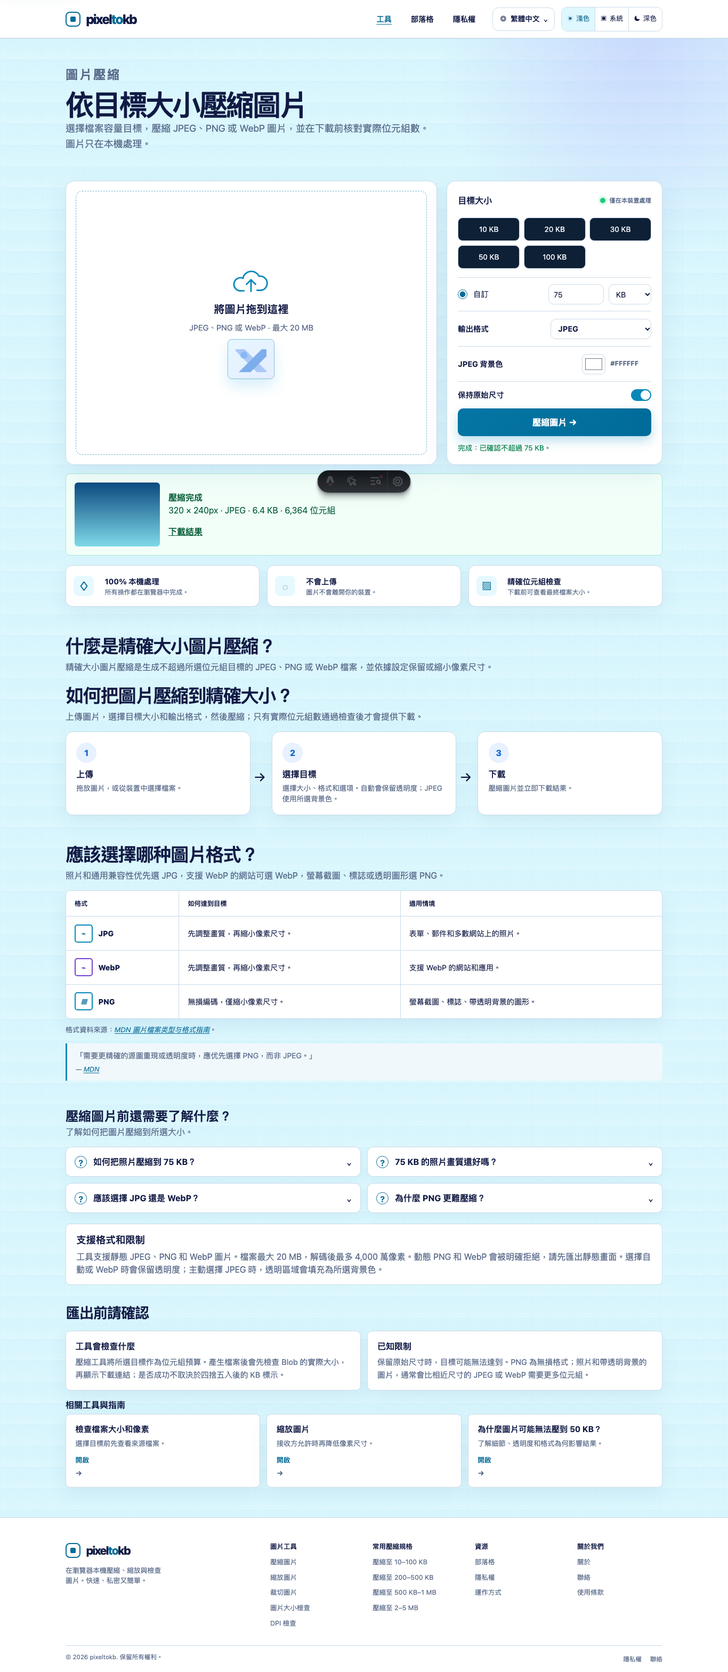
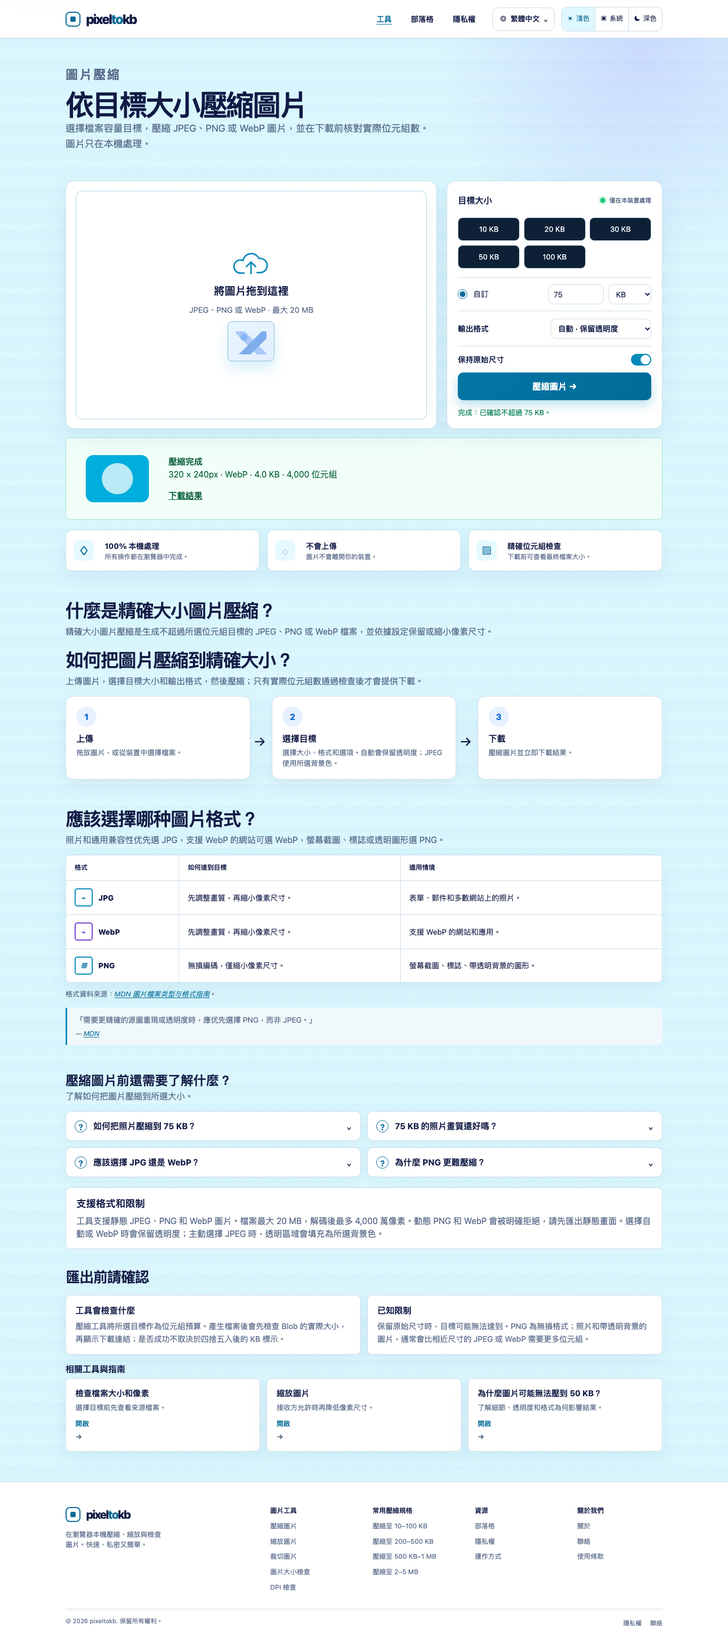
Fix report content evidence and compression range pages

diff --git a/src/lib/guide-content.ts b/src/lib/guide-content.ts
@@ -42,7 +42,7 @@ export const guides: Record<PublishedLocale, Guide[]> = {
         ['Use the destination’s unit', 'Choose KB when the receiving service specifies KB, and KiB when it specifies KiB. If the service is ambiguous, leave a safety margin instead of aiming at the displayed boundary.'],
         ['Why exact bytes matter', 'A rounded label may conceal a small overage. Compare the actual file byte count with the exact ceiling, especially for application forms and automated upload checks.']
       ],
-      example: { heading: 'Verified conversion', rows: [['Starting target', '75 KB'], ['Exact bytes', '75,000'], ['Equivalent KiB', '73.2421875 KiB'], ['Browser result', '320 × 240 JPEG, 6,364 bytes']], note: 'Switching the unit and returning to KB preserved the same 75,000-byte target; the browser run stayed below that ceiling.' },
+      example: { heading: 'Verified conversion', rows: [['Starting target', '75 KB'], ['Exact bytes', '75,000'], ['Equivalent KiB', '73.2421875 KiB'], ['Browser result', '320 × 240 transparent PNG source → 4,000-byte WebP']], note: 'Switching the unit and returning to KB preserved the same 75,000-byte target; the browser run stayed below that ceiling while using a separate transparent source.' },
       sources: [['Unit definitions', 'Decimal units use powers of 1,000; binary IEC units use powers of 1,024.'], ['Example method', 'A 75 KB target was converted across KB, KiB, MB, and MiB and returned to the same 75,000-byte value.']]
     },
     {
@@ -60,22 +60,22 @@ export const guides: Record<PublishedLocale, Guide[]> = {
       slug: 'compress-image-to-100kb', category: 'UPLOAD CASE', title: 'Compress an image to 100 KB for an upload',
       intro: 'A 100 KB upload rule is an exact byte ceiling. This case shows how to choose a target and verify the saved file without promising that every image can reach it.',
       sections: [['Start with the actual limit', 'When a destination uses decimal KB, 100 KB means 100,000 bytes. Check its accepted formats and any pixel limits before changing the file.'], ['Work to the byte budget', 'For a static JPEG or WebP, keep dimensions when the destination permits it, choose 100 KB, and process the file. The tool checks the generated output Blob before offering a download.'], ['Verify the saved download', 'Open the saved file in the size checker and compare exact bytes, pixels, and format with the destination requirements. If the target is unreachable, change dimensions or format only when the destination allows it.']],
-      example: { heading: 'Verified case', rows: [['Limit used', '100 KB = 100,000 bytes'], ['Browser result', '320 × 240 JPEG, 6,364 bytes'], ['Success condition', 'Saved output is at or below the byte ceiling'], ['Fallback', 'Adjust pixels or format only when permitted']], note: 'The screenshot and saved result use the same 320 × 240 JPEG run. This is a repeatable workflow, not a guarantee that every source can meet 100 KB with unchanged dimensions.' },
+      example: { heading: 'Verified case', rows: [['Limit used', '100 KB = 100,000 bytes'], ['Browser result', '320 × 240 RGBA PNG source → 4,016-byte WebP'], ['Success condition', 'Saved output is at or below the byte ceiling'], ['Fallback', 'Adjust pixels or format only when permitted']], note: 'The screenshot and saved result use the same 320 × 240 RGBA PNG run. This is a repeatable workflow, not a guarantee that every source can meet 100 KB with unchanged dimensions.' },
       sources: [['Tool behavior', 'The compressor uses the actual generated Blob byte count as its pass condition, not a rounded label.'], ['Verification method', 'The size checker reads the downloaded file locally to show exact bytes, decoded dimensions, format, and transparency information.']]
     }
   ],
   'zh-cn': [
     { slug:'compress-without-changing-dimensions', category:'压缩基础', title:'不改变像素尺寸，如何压缩图片？', intro:'遇到文件体积限制时，可以先减少编码后的字节数，不必立即改变像素宽高。', sections:[['保持尺寸时可以改变什么？','JPEG 和 WebP 可以用部分细节换取更少字节，同时保持宽高不变。PNG 是无损格式；如果目标很小，除非减少像素或改用接收平台支持的其他格式，否则可能无法达到。'],['可复现的操作步骤','先检查原图尺寸和精确字节数，保持原始尺寸，选择接收平台支持的格式，设置字节目标并处理。只有结果不超过预算时才下载，再用检查工具重新读取保存文件。'],['需要了解的限制','达到字节目标不代表画质一定合格，也不保证接收平台通过。工具拒绝动态 PNG 和 WebP；静态 JPEG、PNG、WebP 输入上限为 20 MB 和 4000 万像素。']], example:{heading:'已验证样例',rows:[['原图','JPEG，320 × 240 像素'],['目标','20 KB（20,000 字节）'],['保存结果','JPEG，6,364 字节，320 × 240 像素'],['尺寸检查','宽高均未改变']],note:'下载后重新解码保存文件，并核对了 JPEG 签名、MIME、尺寸和精确字节数。'},sources:[['样例方法','将 320 × 240 JPEG 处理到 20,000 字节目标，再次打开保存文件，确认格式、尺寸与 6,364 字节的实际大小。'],['技术依据','是否达标只看生成 Blob 的实际字节数，不用四舍五入显示值代替。']]},
     { slug:'why-image-wont-fit-50kb', category:'问题排查', title:'为什么图片可能无法压到 50 KB？', intro:'50 KB 是字节上限，并不保证每张原图都能在格式、尺寸和可见细节不变的情况下达到。', sections:[['图片内容会改变结果','平滑区域容易编码；头发、树叶、文字边缘、颗粒和相机噪点需要更多数据，因此同样像素尺寸的图片也可能产生完全不同的文件体积。'],['格式和透明度同样重要','JPEG 和 WebP 可以舍弃部分细节；PNG 无损保留像素，照片往往较大。需要透明背景时应选 PNG 或 WebP；导出 JPEG 必须明确选择背景色。'],['接下来可以怎么做','先确认接收平台允许哪些格式。支持 WebP 时可以尝试 WebP，否则允许缩小尺寸或提高字节预算。工具提示无法达到目标时，不要把四舍五入后的标签当作成功证据。']],example:{heading:'已验证样例',rows:[['JPEG 原图','320 × 240 → 6,364 字节 JPEG，低于 50 KB'],['WebP 原图','320 × 240 → 23,906 字节 WebP，低于 50 KB'],['高透明度 PNG，目标 10 KB','保持尺寸时无法达到；不提供下载']],note:'第三个案例验证了相同边界：某些格式、透明度、尺寸和字节预算组合不存在有效结果。'},sources:[['样例方法','使用静态 JPEG、WebP 和透明 PNG，在保持尺寸时比较可以达到和无法达到的字节目标。'],['判定规则','只有实际输出 Blob 不超过所选字节数才算成功，否则明确返回失败。']]},
-    { slug:'kb-vs-kib', category:'文件大小', title:'KB 与 KiB 有什么区别？上传限制该看哪个？', intro:'KB 与 KiB 代表不同的字节数；上传上限按精确数值执行时，这个差异很重要。',sections:[['十进制与二进制单位','1 KB 是 1,000 字节，1 KiB 是 1,024 字节；1 MB 是 1,000,000 字节，1 MiB 是 1,048,576 字节。'],['使用接收平台的单位','平台写 KB 就选择 KB，写 KiB 就选择 KiB。标注不明确时，不要卡着显示边界，应留出安全余量。'],['为什么要看精确字节数','四舍五入后的标签可能遮住少量超限。申请表和自动上传检查有严格上限时，应直接比较实际文件字节数。']],example:{heading:'已验证换算',rows:[['起始目标','75 KB'],['精确字节数','75,000'],['等值 KiB','73.2421875 KiB'],['浏览器结果','320 × 240 JPEG，6,364 字节']],note:'切换单位后再回到 KB，仍保持同一个 75,000 字节目标；这次浏览器操作的结果低于该上限。'},sources:[['单位定义','十进制单位使用 1,000 的幂，IEC 二进制单位使用 1,024 的幂。'],['样例方法','将 75 KB 目标在 KB、KiB、MB 与 MiB 之间换算，再回到同一个 75,000 字节值。']]},
+    { slug:'kb-vs-kib', category:'文件大小', title:'KB 与 KiB 有什么区别？上传限制该看哪个？', intro:'KB 与 KiB 代表不同的字节数；上传上限按精确数值执行时，这个差异很重要。',sections:[['十进制与二进制单位','1 KB 是 1,000 字节，1 KiB 是 1,024 字节；1 MB 是 1,000,000 字节，1 MiB 是 1,048,576 字节。'],['使用接收平台的单位','平台写 KB 就选择 KB，写 KiB 就选择 KiB。标注不明确时，不要卡着显示边界，应留出安全余量。'],['为什么要看精确字节数','四舍五入后的标签可能遮住少量超限。申请表和自动上传检查有严格上限时，应直接比较实际文件字节数。']],example:{heading:'已验证换算',rows:[['起始目标','75 KB'],['精确字节数','75,000'],['等值 KiB','73.2421875 KiB'],['浏览器结果','320 × 240 透明 PNG 原图 → 4,000 字节 WebP']],note:'切换单位后再回到 KB，仍保持同一个 75,000 字节目标；这次使用独立透明素材的浏览器操作结果低于该上限。'},sources:[['单位定义','十进制单位使用 1,000 的幂，IEC 二进制单位使用 1,024 的幂。'],['样例方法','将 75 KB 目标在 KB、KiB、MB 与 MiB 之间换算，再回到同一个 75,000 字节值。']]},
     { slug:'check-image-size-and-dpi',category:'图片元数据',title:'如何检查图片大小、像素与 DPI？',intro:'文件字节数、像素尺寸、透明度和 DPI 是不同属性，需要分别检查。',sections:[['文件大小与像素尺寸','文件大小是存储的字节数，像素尺寸是宽和高。压缩改变编码字节，缩放改变像素网格，两者不能互相可靠推断。'],['DPI 能说明什么','DPI 是打印密度元数据，不会增加图片细节。有些文件不包含密度值，应显示为不可用，不能虚构为 72 DPI。'],['快速检查流程','在大小检查工具中选择保存文件，记录字节、KB、KiB、宽高、比例和透明度，再使用 DPI 检查工具。接收平台的格式与尺寸规则仍需另行核对。']],example:{heading:'已验证检查结果',rows:[['JPEG 文件','2,930 字节 · 2.93 KB · 2.86 KiB；320 × 240；无透明度'],['DPI 字段','未嵌入密度值；不根据像素尺寸推断'],['不透明 WebP','320 × 240；显示无透明通道'],['裁剪 PNG','160 × 120；保存像素与所选原图区域一致']],note:'截图和案例使用同一个本地 JPEG；检查器读取实际文件字节和解析后的元数据，不根据像素尺寸猜测 DPI。'},sources:[['样例方法','再次打开保存的 JPEG、不透明 WebP、透明 WebP 与裁剪 PNG，对比字节、尺寸、透明度及可用密度元数据。'],['隐私边界','图片工具只在浏览器中读取所选文件，不会上传到 PixelTokb。']]},
-    {slug:'compress-image-to-100kb',category:'上传案例',title:'如何将图片压缩到 100 KB 用于上传？',intro:'100 KB 上传限制是精确字节上限。这个案例说明如何选择目标并核对保存文件，不承诺每张图片都能在不改尺寸时达到。',sections:[['先确认实际限制','当接收平台使用十进制 KB 时，100 KB 就是 100,000 字节。处理前先确认可接受格式，以及是否还限制宽高。'],['按字节预算处理','对静态 JPEG 或 WebP，在平台允许时保持原尺寸，选择 100 KB 目标后处理。工具会先检查生成 Blob 的实际大小，再提供下载。'],['核对保存文件','用大小检查工具重新打开下载文件，逐项比对精确字节数、像素尺寸和格式。无法达到时，只在平台允许的前提下调整像素或格式。']],example:{heading:'已验证案例',rows:[['使用的上限','100 KB = 100,000 字节'],['浏览器结果','320 × 240 JPEG，6,364 字节'],['成功条件','保存文件不超过精确上限'],['无法达到时','仅在允许时调整像素或格式']],note:'截图和保存结果来自同一次 320 × 240 JPEG 操作。这是可重复的处理流程，不保证所有原图都能在尺寸不变时达到 100 KB。'},sources:[['工具行为','压缩器只以生成 Blob 的实际字节数判断是否达标，不用四舍五入标签代替。'],['核对方法','大小检查器会在本地读取下载文件，显示精确字节、解码尺寸、格式与透明度信息。']]}
+    {slug:'compress-image-to-100kb',category:'上传案例',title:'如何将图片压缩到 100 KB 用于上传？',intro:'100 KB 上传限制是精确字节上限。这个案例说明如何选择目标并核对保存文件，不承诺每张图片都能在不改尺寸时达到。',sections:[['先确认实际限制','当接收平台使用十进制 KB 时，100 KB 就是 100,000 字节。处理前先确认可接受格式，以及是否还限制宽高。'],['按字节预算处理','对静态 JPEG 或 WebP，在平台允许时保持原尺寸，选择 100 KB 目标后处理。工具会先检查生成 Blob 的实际大小，再提供下载。'],['核对保存文件','用大小检查工具重新打开下载文件，逐项比对精确字节数、像素尺寸和格式。无法达到时，只在平台允许的前提下调整像素或格式。']],example:{heading:'已验证案例',rows:[['使用的上限','100 KB = 100,000 字节'],['浏览器结果','320 × 240 RGBA PNG 原图 → 4,016 字节 WebP'],['成功条件','保存文件不超过精确上限'],['无法达到时','仅在允许时调整像素或格式']],note:'截图和保存结果来自同一次 320 × 240 RGBA PNG 操作。这是可重复的处理流程，不保证所有原图都能在尺寸不变时达到 100 KB。'},sources:[['工具行为','压缩器只以生成 Blob 的实际字节数判断是否达标，不用四舍五入标签代替。'],['核对方法','大小检查器会在本地读取下载文件，显示精确字节、解码尺寸、格式与透明度信息。']]}
   ],
   'zh-tw': [
     { slug:'compress-without-changing-dimensions',category:'壓縮基礎',title:'不改變像素尺寸，如何壓縮圖片？',intro:'遇到檔案容量限制時，可以先減少編碼後的位元組數，不必立即改變像素寬高。',sections:[['維持尺寸時可以改變什麼？','JPEG 與 WebP 可以犧牲部分細節來減少位元組，同時維持寬高。PNG 是無損格式；若目標很小，除非減少像素或改用接收平台支援的其他格式，否則可能無法達標。'],['可重現的操作步驟','先檢查原圖尺寸與實際位元組數，維持原始尺寸，選擇接收平台支援的格式，設定目標並處理。只有結果不超過預算時才下載，再用檢查工具重新讀取儲存檔案。'],['需要了解的限制','達到位元組目標不代表畫質一定合格，也不保證接收平台通過。工具拒絕動態 PNG 與 WebP；靜態 JPEG、PNG、WebP 輸入上限為 20 MB 與 4,000 萬像素。']],example:{heading:'已驗證範例',rows:[['原圖','JPEG，320 × 240 像素'],['目標','20 KB（20,000 位元組）'],['儲存結果','JPEG，6,364 位元組，320 × 240 像素'],['尺寸檢查','寬高均未改變']],note:'下載後重新解碼儲存檔案，並核對 JPEG 簽章、MIME、尺寸與實際位元組數。'},sources:[['範例方法','將 320 × 240 JPEG 處理到 20,000 位元組目標，再次開啟儲存檔案，確認格式、尺寸與 6,364 位元組的實際大小。'],['技術依據','是否達標只看產生 Blob 的實際位元組數，不以四捨五入顯示值取代。']]},
     { slug:'why-image-wont-fit-50kb',category:'問題排解',title:'為什麼圖片可能無法壓到 50 KB？',intro:'50 KB 是位元組上限，並不保證每張原圖都能在格式、尺寸與可見細節不變的情況下達標。',sections:[['圖片內容會改變結果','平滑區域容易編碼；頭髮、樹葉、文字邊緣、顆粒與相機雜訊需要更多資料，因此相同像素尺寸的圖片也可能產生完全不同的檔案大小。'],['格式與透明度同樣重要','JPEG 與 WebP 可以捨棄部分細節；PNG 無損保留像素，照片通常較大。需要透明背景時應選 PNG 或 WebP；匯出 JPEG 必須明確選擇背景色。'],['接下來可以怎麼做','先確認接收平台允許哪些格式。支援 WebP 時可以嘗試 WebP，否則允許縮小尺寸或提高位元組預算。工具提示無法達標時，不要把四捨五入後的標示當作成功證據。']],example:{heading:'已驗證範例',rows:[['JPEG 原圖','320 × 240 → 6,364 位元組 JPEG，低於 50 KB'],['WebP 原圖','320 × 240 → 23,906 位元組 WebP，低於 50 KB'],['高透明度 PNG，目標 10 KB','維持尺寸時無法達標；不提供下載']],note:'第三個案例驗證了相同界線：某些格式、透明度、尺寸與位元組預算組合不存在有效結果。'},sources:[['範例方法','使用靜態 JPEG、WebP 與透明 PNG，在維持尺寸時比較可以達到及無法達到的位元組目標。'],['判定規則','只有實際輸出 Blob 不超過所選位元組數才算成功，否則明確回報失敗。']]},
-    {slug:'kb-vs-kib',category:'檔案大小',title:'KB 與 KiB 有什麼不同？上傳限制該看哪個？',intro:'KB 與 KiB 代表不同的位元組數；上傳上限依實際數值執行時，這項差異很重要。',sections:[['十進位與二進位單位','1 KB 是 1,000 位元組，1 KiB 是 1,024 位元組；1 MB 是 1,000,000 位元組，1 MiB 是 1,048,576 位元組。'],['使用接收平台的單位','平台寫 KB 就選擇 KB，寫 KiB 就選擇 KiB。標示不明確時，不要卡著顯示界線，應保留安全餘量。'],['為什麼要看實際位元組數','四捨五入後的標示可能掩蓋少量超限。申請表與自動上傳檢查有嚴格上限時，應直接比較實際檔案位元組數。']],example:{heading:'已驗證換算',rows:[['起始目標','75 KB'],['實際位元組數','75,000'],['等值 KiB','73.2421875 KiB'],['瀏覽器結果','320 × 240 JPEG，6,364 位元組']],note:'切換單位後再回到 KB，仍維持同一個 75,000 位元組目標；這次瀏覽器操作的結果低於該上限。'},sources:[['單位定義','十進位單位使用 1,000 的次方，IEC 二進位單位使用 1,024 的次方。'],['範例方法','將 75 KB 目標在 KB、KiB、MB 與 MiB 之間換算，再回到同一個 75,000 位元組值。']]},
+    {slug:'kb-vs-kib',category:'檔案大小',title:'KB 與 KiB 有什麼不同？上傳限制該看哪個？',intro:'KB 與 KiB 代表不同的位元組數；上傳上限依實際數值執行時，這項差異很重要。',sections:[['十進位與二進位單位','1 KB 是 1,000 位元組，1 KiB 是 1,024 位元組；1 MB 是 1,000,000 位元組，1 MiB 是 1,048,576 位元組。'],['使用接收平台的單位','平台寫 KB 就選擇 KB，寫 KiB 就選擇 KiB。標示不明確時，不要卡著顯示界線，應保留安全餘量。'],['為什麼要看實際位元組數','四捨五入後的標示可能掩蓋少量超限。申請表與自動上傳檢查有嚴格上限時，應直接比較實際檔案位元組數。']],example:{heading:'已驗證換算',rows:[['起始目標','75 KB'],['實際位元組數','75,000'],['等值 KiB','73.2421875 KiB'],['瀏覽器結果','320 × 240 透明 PNG 原圖 → 4,000 位元組 WebP']],note:'切換單位後再回到 KB，仍維持同一個 75,000 位元組目標；這次使用獨立透明素材的瀏覽器操作結果低於該上限。'},sources:[['單位定義','十進位單位使用 1,000 的次方，IEC 二進位單位使用 1,024 的次方。'],['範例方法','將 75 KB 目標在 KB、KiB、MB 與 MiB 之間換算，再回到同一個 75,000 位元組值。']]},
     {slug:'check-image-size-and-dpi',category:'圖片中繼資料',title:'如何檢查圖片大小、像素與 DPI？',intro:'檔案位元組數、像素尺寸、透明度與 DPI 是不同屬性，需要分別檢查。',sections:[['檔案大小與像素尺寸','檔案大小是儲存的位元組數，像素尺寸是寬與高。壓縮改變編碼位元組，縮放改變像素網格，兩者不能互相可靠推斷。'],['DPI 能說明什麼','DPI 是列印密度中繼資料，不會增加圖片細節。有些檔案不含密度值，應顯示為無法取得，不能虛構為 72 DPI。'],['快速檢查流程','在大小檢查工具中選擇儲存檔案，記錄位元組、KB、KiB、寬高、長寬比與透明度，再使用 DPI 檢查工具。接收平台的格式與尺寸規定仍須另行核對。']],example:{heading:'已驗證檢查結果',rows:[['JPEG 檔案','2,930 位元組 · 2.93 KB · 2.86 KiB；320 × 240；沒有透明度'],['DPI 欄位','未嵌入密度值；不根據像素尺寸推斷'],['不透明 WebP','320 × 240；顯示沒有透明通道'],['裁切 PNG','160 × 120；儲存像素與所選原圖區域一致']],note:'截圖和案例使用同一個本機 JPEG；檢查器讀取實際檔案位元組與解析後的中繼資料，不會根據像素尺寸猜測 DPI。'},sources:[['範例方法','再次開啟儲存的 JPEG、不透明 WebP、透明 WebP 與裁切 PNG，比較位元組、尺寸、透明度及可用密度中繼資料。'],['隱私界線','圖片工具只在瀏覽器中讀取所選檔案，不會上傳到 PixelTokb。']]},
-    {slug:'compress-image-to-100kb',category:'上傳案例',title:'如何將圖片壓縮到 100 KB 用於上傳？',intro:'100 KB 上傳限制是精確位元組上限。這個案例說明如何選擇目標並核對儲存檔案，不承諾每張圖片都能在不改尺寸時達到。',sections:[['先確認實際限制','當接收平台使用十進位 KB 時，100 KB 就是 100,000 位元組。處理前先確認可接受格式，以及是否還限制寬高。'],['依位元組預算處理','對靜態 JPEG 或 WebP，在平台允許時維持原尺寸，選擇 100 KB 目標後處理。工具會先檢查產生 Blob 的實際大小，再提供下載。'],['核對儲存檔案','用大小檢查工具重新開啟下載檔案，逐項比對實際位元組數、像素尺寸與格式。無法達到時，只在平台允許的前提下調整像素或格式。']],example:{heading:'已驗證案例',rows:[['使用的上限','100 KB = 100,000 位元組'],['瀏覽器結果','320 × 240 JPEG，6,364 位元組'],['成功條件','儲存檔案不超過實際上限'],['無法達到時','僅在允許時調整像素或格式']],note:'截圖和儲存結果來自同一次 320 × 240 JPEG 操作。這是可重現的處理流程，不保證所有原圖都能在尺寸不變時達到 100 KB。'},sources:[['工具行為','壓縮器只以產生 Blob 的實際位元組數判斷是否達標，不用四捨五入標示代替。'],['核對方法','大小檢查器會在本機讀取下載檔案，顯示實際位元組、解碼尺寸、格式與透明度資訊。']]}
+    {slug:'compress-image-to-100kb',category:'上傳案例',title:'如何將圖片壓縮到 100 KB 用於上傳？',intro:'100 KB 上傳限制是精確位元組上限。這個案例說明如何選擇目標並核對儲存檔案，不承諾每張圖片都能在不改尺寸時達到。',sections:[['先確認實際限制','當接收平台使用十進位 KB 時，100 KB 就是 100,000 位元組。處理前先確認可接受格式，以及是否還限制寬高。'],['依位元組預算處理','對靜態 JPEG 或 WebP，在平台允許時維持原尺寸，選擇 100 KB 目標後處理。工具會先檢查產生 Blob 的實際大小，再提供下載。'],['核對儲存檔案','用大小檢查工具重新開啟下載檔案，逐項比對實際位元組數、像素尺寸與格式。無法達到時，只在平台允許的前提下調整像素或格式。']],example:{heading:'已驗證案例',rows:[['使用的上限','100 KB = 100,000 位元組'],['瀏覽器結果','320 × 240 RGBA PNG 原圖 → 4,016 位元組 WebP'],['成功條件','儲存檔案不超過實際上限'],['無法達到時','僅在允許時調整像素或格式']],note:'截圖和儲存結果來自同一次 320 × 240 RGBA PNG 操作。這是可重現的處理流程，不保證所有原圖都能在尺寸不變時達到 100 KB。'},sources:[['工具行為','壓縮器只以產生 Blob 的實際位元組數判斷是否達標，不用四捨五入標示代替。'],['核對方法','大小檢查器會在本機讀取下載檔案，顯示實際位元組、解碼尺寸、格式與透明度資訊。']]}
   ]
 };

diff --git a/src/lib/guide-workflows.ts b/src/lib/guide-workflows.ts
@@ -25,17 +25,17 @@ export const guideWorkflows: WorkflowMap = {
       links: [['Open the compressor', '/compress-image/'], ['Check the saved file', '/image-size-checker/']]
     },
     'why-image-wont-fit-50kb': {
-      situation: 'The 50 KB page is useful when a file is close to a limit but different image content or transparency changes what is reachable.',
-      steps: [['Confirm the exact ceiling', 'Treat 50 KB as 50,000 bytes and note which formats the receiving service accepts.'], ['Run the reachable control case', 'Process the 320 × 240 JPEG with dimensions preserved so there is a real comparison point.'], ['Handle an unreachable case honestly', 'If a transparent PNG cannot meet a smaller target, keep the failure message and do not invent a downloadable file.']],
+      situation: 'This run starts with a textured 320 × 240 WebP, not the JPEG used in the 20 KB article, so the output format and byte count can be compared on its own.',
+      steps: [['Confirm the exact ceiling', 'Treat 50 KB as 50,000 bytes and note whether the receiving service accepts WebP.'], ['Keep the source dimensions', 'Upload the textured WebP, keep 320 × 240 enabled, and run the 50 KB target.'], ['Check the saved result', 'The browser reports a 23,906-byte WebP; verify that format and dimensions before uploading it.']],
       image: 'compress-50kb',
-      caption: 'Browser control run for the 50 KB article: the 320 × 240 JPEG finishes at 6,364 bytes, well below the 50,000-byte ceiling.',
+      caption: 'Independent browser run with a textured 320 × 240 WebP: the 50 KB target produces a 23,906-byte WebP while keeping both dimensions.',
       links: [['Try another target', '/compress-image/'], ['Inspect format and bytes', '/image-size-checker/']]
     },
     'kb-vs-kib': {
-      situation: 'This example uses the same compressor with a 75 KB target so the unit label can be compared with the actual byte ceiling.',
-      steps: [['Choose the unit named by the destination', 'Select decimal KB when the upload form says KB; do not silently substitute KiB.'], ['Read the exact target', '75 KB is 75,000 bytes, while the same byte count is 73.2421875 KiB.'], ['Leave a safety margin when unclear', 'A receiving service can reject a rounded boundary value, so aim below it when its unit is not documented.']],
+      situation: 'This case uses a transparent 320 × 240 PNG. It shows why a small transparent asset can produce a much smaller WebP than its 75 KB ceiling, while the unit conversion remains exact.',
+      steps: [['Choose the unit named by the destination', 'Select decimal KB when the upload form says KB; do not silently substitute KiB.'], ['Read the exact target', '75 KB is 75,000 bytes, while the same byte count is 73.2421875 KiB.'], ['Check transparency and bytes', 'The transparent source finishes as a 4,000-byte WebP; confirm that the receiving service accepts WebP and transparency.']],
       image: 'compress-75kb',
-      caption: 'Browser run with a decimal 75 KB target: the target is 75,000 bytes and the generated 320 × 240 JPEG is 6,364 bytes.',
+      caption: 'Independent browser run with a transparent 320 × 240 PNG: a decimal 75 KB target yields a 4,000-byte WebP and preserves the pixel dimensions.',
       links: [['Set a precise target', '/compress-image/'], ['Read exact file units', '/image-size-checker/']]
     },
     'check-image-size-and-dpi': {
@@ -46,10 +46,10 @@ export const guideWorkflows: WorkflowMap = {
       links: [['Check image size', '/image-size-checker/'], ['Check DPI metadata', '/image-dpi-checker/']]
     },
     'compress-image-to-100kb': {
-      situation: 'This is the straightforward upload case: a destination has a decimal 100 KB ceiling and the saved result still needs a second, exact check.',
-      steps: [['Translate the rule', '100 KB means 100,000 bytes when the destination uses decimal KB.'], ['Process the source', 'Keep the 320 × 240 dimensions, choose 100 KB, and wait for the result card to verify the generated Blob.'], ['Verify what was saved', 'Open the downloaded file in the checker and compare its bytes, format, and pixels with the upload form.']],
+      situation: 'This case starts with a larger 320 × 240 RGBA PNG. The 100 KB ceiling is generous enough to demonstrate format conversion and the need to inspect the saved file rather than the source extension.',
+      steps: [['Translate the rule', '100 KB means 100,000 bytes when the destination uses decimal KB.'], ['Process the larger PNG', 'Keep 320 × 240 dimensions, choose 100 KB, and let Auto preserve the available alpha information.'], ['Verify what was saved', 'The result is a 4,016-byte WebP; re-open it to confirm its signature, bytes, dimensions, and transparency.']],
       image: 'compress-100kb',
-      caption: 'Complete browser run with a 320 × 240 JPEG and a decimal 100 KB target: the downloadable JPEG is 6,364 bytes.',
+      caption: 'Independent browser run with a larger 320 × 240 RGBA PNG: the decimal 100 KB target produces a 4,016-byte WebP with the same dimensions.',
       links: [['Open the 100 KB compressor', '/compress-image/'], ['Verify the download', '/image-size-checker/']]
     }
   },
@@ -62,17 +62,17 @@ export const guideWorkflows: WorkflowMap = {
       links: [['打开压缩工具', '/compress-image/'], ['检查保存文件', '/image-size-checker/']]
     },
     'why-image-wont-fit-50kb': {
-      situation: '50 KB 页面适合排查接近上限的文件，因为图片内容和透明度会改变实际可达的结果。',
-      steps: [['确认精确上限', '把 50 KB 当作 50,000 字节，并先确认接收平台允许哪些格式。'], ['先跑可达的对照案例', '保持 320 × 240 尺寸处理 JPEG，得到真实的比较基准。'], ['如实处理不可达案例', '透明 PNG 无法达到更小目标时保留失败提示，不要虚构可下载文件。']],
+      situation: '这次从带纹理的 320 × 240 WebP 开始，不再重复 20 KB 文章里的 JPEG，可以单独核对输出格式和实际字节数。',
+      steps: [['确认精确上限', '把 50 KB 当作 50,000 字节，并先确认接收平台是否允许 WebP。'], ['保持原图尺寸', '上传带纹理的 WebP，保持 320 × 240，运行 50 KB 目标。'], ['检查保存结果', '浏览器显示结果为 23,906 字节的 WebP；上传前再次核对格式和尺寸。']],
       image: 'compress-50kb',
-      caption: '50 KB 文章的浏览器对照操作：320 × 240 JPEG 最终为 6,364 字节，低于 50,000 字节上限。',
+      caption: '独立浏览器操作：带纹理的 320 × 240 WebP 在 50 KB 目标下得到 23,906 字节的 WebP，同时保持宽高不变。',
       links: [['尝试其他目标', '/compress-image/'], ['检查格式和字节', '/image-size-checker/']]
     },
     'kb-vs-kib': {
-      situation: '这个案例使用 75 KB 目标，把单位标签与精确字节上限放在同一次真实操作里比较。',
-      steps: [['按接收平台选择单位', '上传表单写 KB 就选十进制 KB，不要自动替换成 KiB。'], ['读取精确目标', '75 KB 是 75,000 字节；同一字节数等于 73.2421875 KiB。'], ['单位不明确时留余量', '接收平台可能拒绝四舍五入后的边界值，规则不清楚时应低于边界。']],
+      situation: '这个案例使用带透明度的 320 × 240 PNG，展示透明小图如何在 75 KB 上限下生成更小的 WebP，同时保留精确单位换算。',
+      steps: [['按接收平台选择单位', '上传表单写 KB 就选十进制 KB，不要自动替换成 KiB。'], ['读取精确目标', '75 KB 是 75,000 字节；同一字节数等于 73.2421875 KiB。'], ['同时核对透明度和字节', '透明原图最后生成 4,000 字节的 WebP；确认接收平台允许 WebP 和透明度。']],
       image: 'compress-75kb',
-      caption: '浏览器实测：十进制 75 KB 目标等于 75,000 字节，生成的 320 × 240 JPEG 为 6,364 字节。',
+      caption: '独立浏览器操作：带透明度的 320 × 240 PNG 在十进制 75 KB 目标下生成 4,000 字节的 WebP，并保持像素尺寸。',
       links: [['设置精确目标', '/compress-image/'], ['读取文件单位', '/image-size-checker/']]
     },
     'check-image-size-and-dpi': {
@@ -83,10 +83,10 @@ export const guideWorkflows: WorkflowMap = {
       links: [['检查图片大小', '/image-size-checker/'], ['检查 DPI 信息', '/image-dpi-checker/']]
     },
     'compress-image-to-100kb': {
-      situation: '这是最直接的上传案例：接收平台有十进制 100 KB 上限，保存结果仍要再做一次精确检查。',
-      steps: [['换算规则', '平台使用十进制 KB 时，100 KB 就是 100,000 字节。'], ['处理原图', '保持 320 × 240 尺寸，选择 100 KB，等待结果卡核对生成 Blob。'], ['核对保存文件', '用检查器重新打开下载文件，对比字节数、格式和像素尺寸。']],
+      situation: '这个案例从较大的 320 × 240 RGBA PNG 开始。100 KB 上限足够宽松，可以观察格式转换，也说明为什么要检查保存后的文件而不是只看原扩展名。',
+      steps: [['换算规则', '平台使用十进制 KB 时，100 KB 就是 100,000 字节。'], ['处理较大的 PNG', '保持 320 × 240 尺寸，选择 100 KB，让自动格式保留可用的透明信息。'], ['核对保存文件', '结果是 4,016 字节的 WebP；重新打开并确认签名、字节数、尺寸和透明度。']],
       image: 'compress-100kb',
-      caption: '完整浏览器操作：320 × 240 JPEG，十进制 100 KB 目标；可下载的 JPEG 为 6,364 字节。',
+      caption: '独立浏览器操作：较大的 320 × 240 RGBA PNG 在十进制 100 KB 目标下生成 4,016 字节的 WebP，尺寸保持不变。',
       links: [['打开 100 KB 压缩工具', '/compress-image/'], ['核对下载文件', '/image-size-checker/']]
     }
   },
@@ -99,17 +99,17 @@ export const guideWorkflows: WorkflowMap = {
       links: [['開啟壓縮工具', '/compress-image/'], ['檢查儲存檔案', '/image-size-checker/']]
     },
     'why-image-wont-fit-50kb': {
-      situation: '50 KB 頁面適合排查接近上限的檔案，因為圖片內容與透明度會改變實際可達的結果。',
-      steps: [['確認實際上限', '把 50 KB 當作 50,000 位元組，並先確認接收平台允許哪些格式。'], ['先跑可達的對照案例', '維持 320 × 240 尺寸處理 JPEG，得到真實的比較基準。'], ['如實處理無法達標的案例', '透明 PNG 無法達到更小目標時保留失敗提示，不要虛構可下載檔案。']],
+      situation: '這次從帶紋理的 320 × 240 WebP 開始，不再重複 20 KB 文章裡的 JPEG，可以單獨核對輸出格式與實際位元組數。',
+      steps: [['確認實際上限', '把 50 KB 當作 50,000 位元組，並先確認接收平台是否允許 WebP。'], ['維持原圖尺寸', '上傳帶紋理的 WebP，維持 320 × 240，執行 50 KB 目標。'], ['檢查儲存結果', '瀏覽器顯示結果為 23,906 位元組的 WebP；上傳前再次核對格式與尺寸。']],
       image: 'compress-50kb',
-      caption: '50 KB 文章的瀏覽器對照操作：320 × 240 JPEG 最終為 6,364 位元組，低於 50,000 位元組上限。',
+      caption: '獨立瀏覽器操作：帶紋理的 320 × 240 WebP 在 50 KB 目標下得到 23,906 位元組的 WebP，同時維持寬高不變。',
       links: [['嘗試其他目標', '/compress-image/'], ['檢查格式與位元組', '/image-size-checker/']]
     },
     'kb-vs-kib': {
-      situation: '這個案例使用 75 KB 目標，把單位標示與實際位元組上限放在同一次操作中比較。',
-      steps: [['依接收平台選擇單位', '上傳表單寫 KB 就選十進位 KB，不要自動替換成 KiB。'], ['讀取實際目標', '75 KB 是 75,000 位元組；同一位元組數等於 73.2421875 KiB。'], ['單位不明時保留餘量', '接收平台可能拒絕四捨五入後的界線值，規則不清楚時應低於界線。']],
+      situation: '這個案例使用帶透明度的 320 × 240 PNG，展示透明小圖如何在 75 KB 上限下產生更小的 WebP，同時保留精確單位換算。',
+      steps: [['依接收平台選擇單位', '上傳表單寫 KB 就選十進位 KB，不要自動替換成 KiB。'], ['讀取實際目標', '75 KB 是 75,000 位元組；同一位元組數等於 73.2421875 KiB。'], ['同時核對透明度與位元組', '透明原圖最後產生 4,000 位元組的 WebP；確認接收平台允許 WebP 與透明度。']],
       image: 'compress-75kb',
-      caption: '瀏覽器實測：十進位 75 KB 目標等於 75,000 位元組，產生的 320 × 240 JPEG 為 6,364 位元組。',
+      caption: '獨立瀏覽器操作：帶透明度的 320 × 240 PNG 在十進位 75 KB 目標下產生 4,000 位元組的 WebP，並維持像素尺寸。',
       links: [['設定精確目標', '/compress-image/'], ['讀取檔案單位', '/image-size-checker/']]
     },
     'check-image-size-and-dpi': {
@@ -120,10 +120,10 @@ export const guideWorkflows: WorkflowMap = {
       links: [['檢查圖片大小', '/image-size-checker/'], ['檢查 DPI 資訊', '/image-dpi-checker/']]
     },
     'compress-image-to-100kb': {
-      situation: '這是最直接的上傳案例：接收平台有十進位 100 KB 上限，儲存結果仍要再做一次精確檢查。',
-      steps: [['換算規則', '平台使用十進位 KB 時，100 KB 就是 100,000 位元組。'], ['處理原圖', '維持 320 × 240 尺寸，選擇 100 KB，等待結果卡核對產生的 Blob。'], ['核對儲存檔案', '用檢查器重新開啟下載檔案，比對位元組數、格式和像素尺寸。']],
+      situation: '這個案例從較大的 320 × 240 RGBA PNG 開始。100 KB 上限足夠寬鬆，可以觀察格式轉換，也說明為什麼要檢查儲存後的檔案，而不是只看原副檔名。',
+      steps: [['換算規則', '平台使用十進位 KB 時，100 KB 就是 100,000 位元組。'], ['處理較大的 PNG', '維持 320 × 240 尺寸，選擇 100 KB，讓自動格式保留可用的透明資訊。'], ['核對儲存檔案', '結果是 4,016 位元組的 WebP；重新開啟並確認簽章、位元組數、尺寸與透明度。']],
       image: 'compress-100kb',
-      caption: '完整瀏覽器操作：320 × 240 JPEG，十進位 100 KB 目標；可下載的 JPEG 為 6,364 位元組。',
+      caption: '獨立瀏覽器操作：較大的 320 × 240 RGBA PNG 在十進位 100 KB 目標下產生 4,016 位元組的 WebP，尺寸維持不變。',
       links: [['開啟 100 KB 壓縮工具', '/compress-image/'], ['核對下載檔案', '/image-size-checker/']]
     }
   }

diff --git a/src/lib/compression-page-content.ts b/src/lib/compression-page-content.ts
@@ -1,0 +1,103 @@
+import type { CompressionGroup } from './compression-groups';
+import type { PublishedLocale } from './guide-content';
+
+type RangeCopy = {
+  title: string;
+  intro: string;
+  points: Array<[string, string]>;
+  checkTitle: string;
+  check: string;
+};
+
+export const compressionPageContent: Record<PublishedLocale, Record<CompressionGroup, RangeCopy>> = {
+  en: {
+    small: {
+      title: 'When the upload limit is strict',
+      intro: 'Use the 10–100 KB range for forms, listings, and document uploads where a few extra bytes can reject an otherwise correct image.',
+      points: [['Protect text edges', 'Keep the original dimensions when the image contains small labels or signatures, then inspect the saved file at its real size.'], ['Allow a reachable target', 'A detailed or transparent image may not fit while pixels are locked. If the tool reports an unreachable target, change the pixels or use the receiving service’s larger limit.']],
+      checkTitle: 'Independent check before upload',
+      check: 'Read the downloaded bytes and dimensions in the image checker. Do not treat a rounded “10 KB” or “50 KB” label as proof that the file is below the service’s exact byte ceiling.'
+    },
+    medium: {
+      title: 'For everyday photos and documents',
+      intro: 'The 200–500 KB range is a practical middle ground for profile photos, application attachments, and document images that need more detail than a tiny thumbnail.',
+      points: [['Compare 300 KB with 500 KB', 'Start near 300 KB for a smaller upload, then move toward 500 KB when text, hair, or fine edges look soft. The useful comparison is the saved file, not the target label.'], ['Confirm the accepted format', 'JPEG works for photographs, WebP can be smaller when the destination accepts it, and PNG is useful for transparency or sharp graphics.']],
+      checkTitle: 'Independent check before upload',
+      check: 'Open both candidates in the checker and record actual bytes, dimensions, format, and transparency. Keep the smaller file only when it still meets the receiving form’s visual and format rules.'
+    },
+    large: {
+      title: 'For phone photos under one megabyte',
+      intro: 'The 500 KB–1 MB range suits phone photos and screenshots that need visible detail but still have to pass a sub-megabyte upload rule.',
+      points: [['Preserve useful detail', 'Begin near 750 KB when faces, text, or fine texture matter. A smaller target can be appropriate for a thumbnail but may make readable text break up.'], ['Check the source dimensions', 'A large phone photo can be reduced in pixels before compression if the destination does not need the original camera dimensions. This often protects detail better than forcing a very low quality setting.']],
+      checkTitle: 'Independent check before upload',
+      check: 'Verify the saved result at 500 KB, 750 KB, or 1 MB with the checker. Compare the dimensions and format against the destination before replacing the original.'
+    },
+    megabytes: {
+      title: 'For high-resolution originals',
+      intro: 'The 2–5 MB range is for destinations that accept a larger image and where keeping photographic detail matters more than reaching a tiny upload size.',
+      points: [['Decide whether the pixels are needed', 'A 2 MB target may be enough for a form or preview. Keep 3–5 MB when the destination genuinely needs more detail and the original is still within the 20 MB input limit.'], ['Do not confuse bytes with print size', 'A larger file does not automatically mean a larger print. Check pixels and DPI separately when the destination describes a physical size or resolution requirement.']],
+      checkTitle: 'Independent check before upload',
+      check: 'Open the saved file and record its actual bytes, dimensions, format, and DPI availability. Keep the original until the receiving service accepts the checked copy.'
+    }
+  },
+  'zh-cn': {
+    small: {
+      title: '上传上限很严格时',
+      intro: '10–100 KB 区间适合表单、列表和文件上传；多出的几个字节都可能让本来正确的图片被拒绝。',
+      points: [['保护文字边缘', '图片里有小字或签名时先保持原始尺寸，再按保存后的实际大小检查文件。'], ['先确认目标可达', '锁定像素时，细节多或带透明度的图片可能无法达到目标。工具提示无法达标时，应调整像素或改用接收平台允许的更大上限。']],
+      checkTitle: '上传前的独立核对',
+      check: '用图片检查工具读取下载文件的实际字节数和尺寸。不要把四舍五入后的“10 KB”或“50 KB”标签当作低于平台精确字节上限的证明。'
+    },
+    medium: {
+      title: '普通照片和文档上传',
+      intro: '200–500 KB 区间适合头像、申请附件和文档图片，比小缩略图保留更多细节。',
+      points: [['比较 300 KB 和 500 KB', '先从 300 KB 开始获得更小的上传文件；文字、头发或细边缘发软时，再尝试接近 500 KB。真正要比较的是保存文件，而不是目标标签。'], ['确认接收格式', '照片通常适合 JPEG；接收平台允许时 WebP 可能更小；需要透明度或锐利图形时使用 PNG。']],
+      checkTitle: '上传前的独立核对',
+      check: '在检查工具中分别打开两个候选文件，记录实际字节数、尺寸、格式和透明度。只有同时符合表单的视觉和格式要求，才保留更小的文件。'
+    },
+    large: {
+      title: '手机照片需要控制在 1 MB 内时',
+      intro: '500 KB–1 MB 区间适合手机照片和截图：保留可见细节，同时满足小于 1 MB 的上传规则。',
+      points: [['保留有用细节', '人脸、文字或细纹理重要时可从 750 KB 附近开始。更小目标适合缩略图，但可能让文字边缘破碎。'], ['先看原始尺寸', '接收平台不要求相机原始像素时，可以先缩小手机照片，再压缩文件。相比强行降低质量，这样往往更容易保留细节。']],
+      checkTitle: '上传前的独立核对',
+      check: '用检查工具核对 500 KB、750 KB 或 1 MB 目标生成的保存文件。提交前把尺寸和格式与接收平台要求逐项对照。'
+    },
+    megabytes: {
+      title: '高分辨率原图需要保留细节时',
+      intro: '2–5 MB 区间适合允许较大图片的接收平台；这时保留照片细节比追求极小文件更重要。',
+      points: [['先判断是否真的需要像素', '表单或预览通常 2 MB 就够；只有接收平台确实需要更多细节、且原图在 20 MB 输入限制内时，才保留 3–5 MB。'], ['不要把字节等同于打印尺寸', '文件更大不代表打印尺寸一定更大。平台提出实体尺寸或分辨率要求时，应分别检查像素和 DPI。']],
+      checkTitle: '上传前的独立核对',
+      check: '打开保存文件，记录实际字节数、尺寸、格式和 DPI 是否存在。确认接收平台接受检查后的副本前，不要删除原图。'
+    }
+  },
+  'zh-tw': {
+    small: {
+      title: '上傳上限很嚴格時',
+      intro: '10–100 KB 區間適合表單、清單和檔案上傳；多出的幾個位元組都可能讓原本正確的圖片被拒絕。',
+      points: [['保護文字邊緣', '圖片裡有小字或簽名時先維持原始尺寸，再按儲存後的實際大小檢查檔案。'], ['先確認目標可達', '鎖定像素時，細節多或帶透明度的圖片可能無法達到目標。工具提示無法達標時，應調整像素或改用接收平台允許的較大上限。']],
+      checkTitle: '上傳前的獨立核對',
+      check: '用圖片檢查工具讀取下載檔案的實際位元組數和尺寸。不要把四捨五入後的「10 KB」或「50 KB」標籤當作低於平台精確位元組上限的證明。'
+    },
+    medium: {
+      title: '普通照片和文件上傳',
+      intro: '200–500 KB 區間適合頭像、申請附件和文件圖片，比小縮圖保留更多細節。',
+      points: [['比較 300 KB 和 500 KB', '先從 300 KB 開始取得較小的上傳檔案；文字、頭髮或細邊緣變模糊時，再嘗試接近 500 KB。真正要比較的是儲存檔案，而不是目標標籤。'], ['確認接收格式', '照片通常適合 JPEG；接收平台允許時 WebP 可能更小；需要透明度或銳利圖形時使用 PNG。']],
+      checkTitle: '上傳前的獨立核對',
+      check: '在檢查工具中分別開啟兩個候選檔案，記錄實際位元組數、尺寸、格式和透明度。只有同時符合表單的視覺與格式要求，才保留較小的檔案。'
+    },
+    large: {
+      title: '手機照片需要控制在 1 MB 內時',
+      intro: '500 KB–1 MB 區間適合手機照片和截圖：保留可見細節，同時符合小於 1 MB 的上傳規則。',
+      points: [['保留有用細節', '人臉、文字或細紋理重要時可從 750 KB 附近開始。較小目標適合縮圖，但可能讓文字邊緣破碎。'], ['先看原始尺寸', '接收平台不要求相機原始像素時，可以先縮小手機照片，再壓縮檔案。相比強行降低品質，這樣往往更容易保留細節。']],
+      checkTitle: '上傳前的獨立核對',
+      check: '用檢查工具核對 500 KB、750 KB 或 1 MB 目標產生的儲存檔案。提交前把尺寸和格式與接收平台要求逐項對照。'
+    },
+    megabytes: {
+      title: '高解析度原圖需要保留細節時',
+      intro: '2–5 MB 區間適合允許較大圖片的接收平台；這時保留照片細節比追求極小檔案更重要。',
+      points: [['先判斷是否真的需要像素', '表單或預覽通常 2 MB 就足夠；只有接收平台確實需要更多細節、且原圖在 20 MB 輸入限制內時，才保留 3–5 MB。'], ['不要把位元組等同於列印尺寸', '檔案較大不代表列印尺寸一定較大。平台提出實體尺寸或解析度要求時，應分別檢查像素和 DPI。']],
+      checkTitle: '上傳前的獨立核對',
+      check: '開啟儲存檔案，記錄實際位元組數、尺寸、格式和 DPI 是否存在。確認接收平台接受檢查後的副本前，不要刪除原圖。'
+    }
+  }
+};
